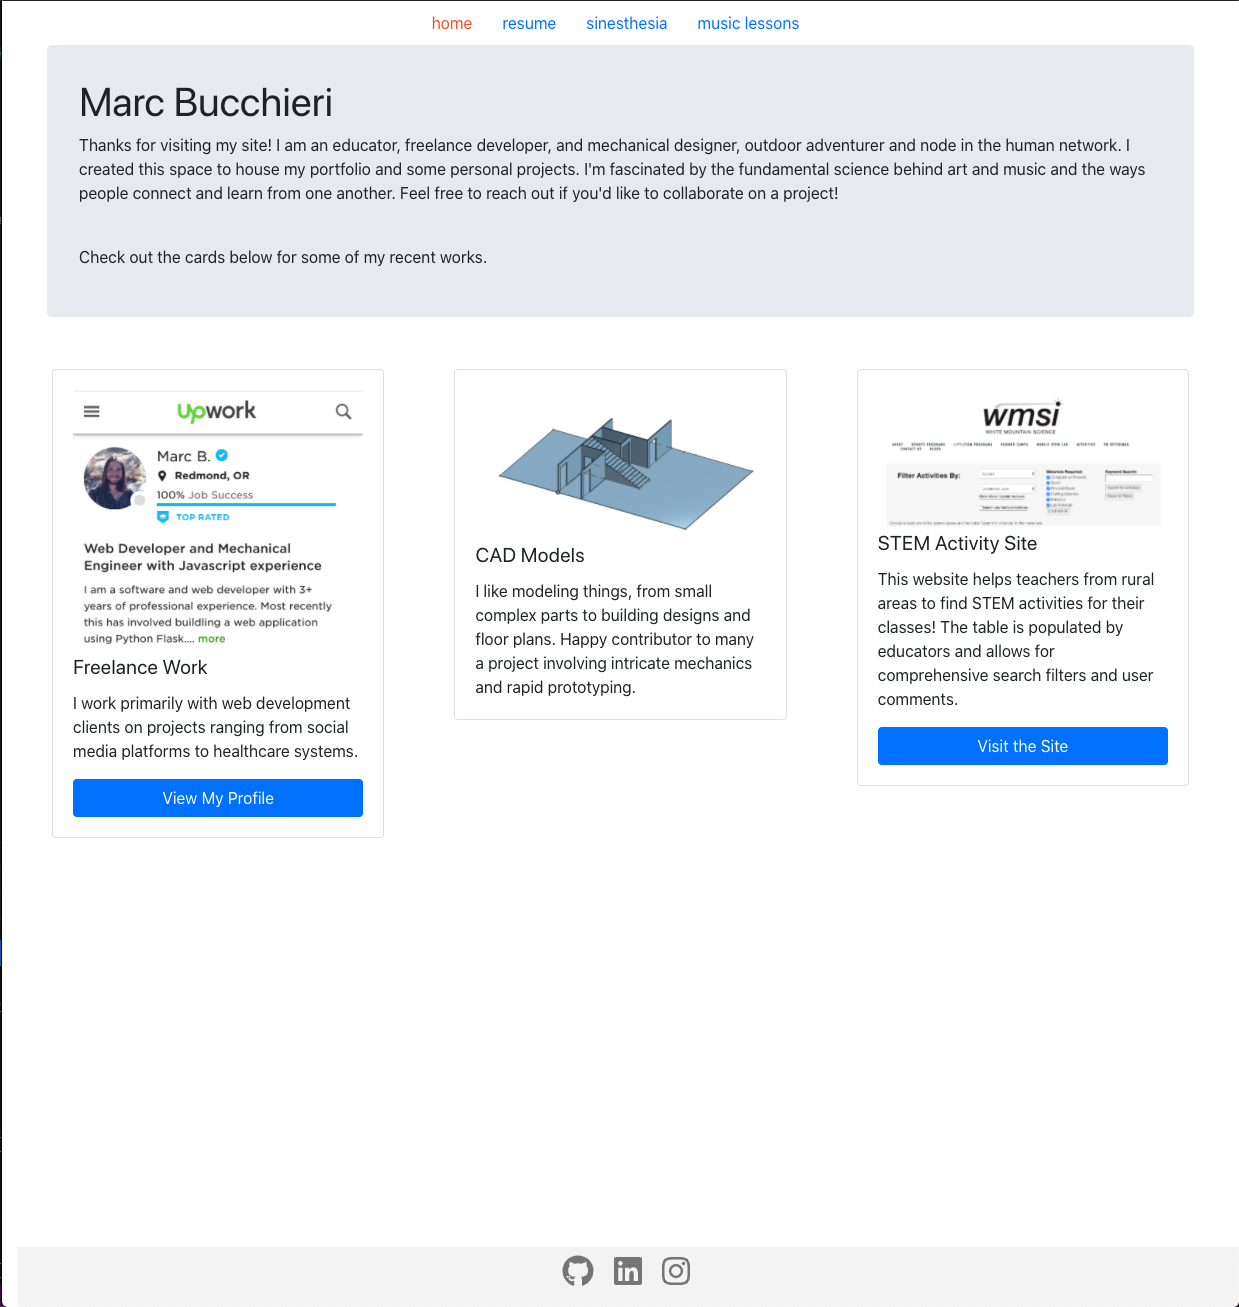
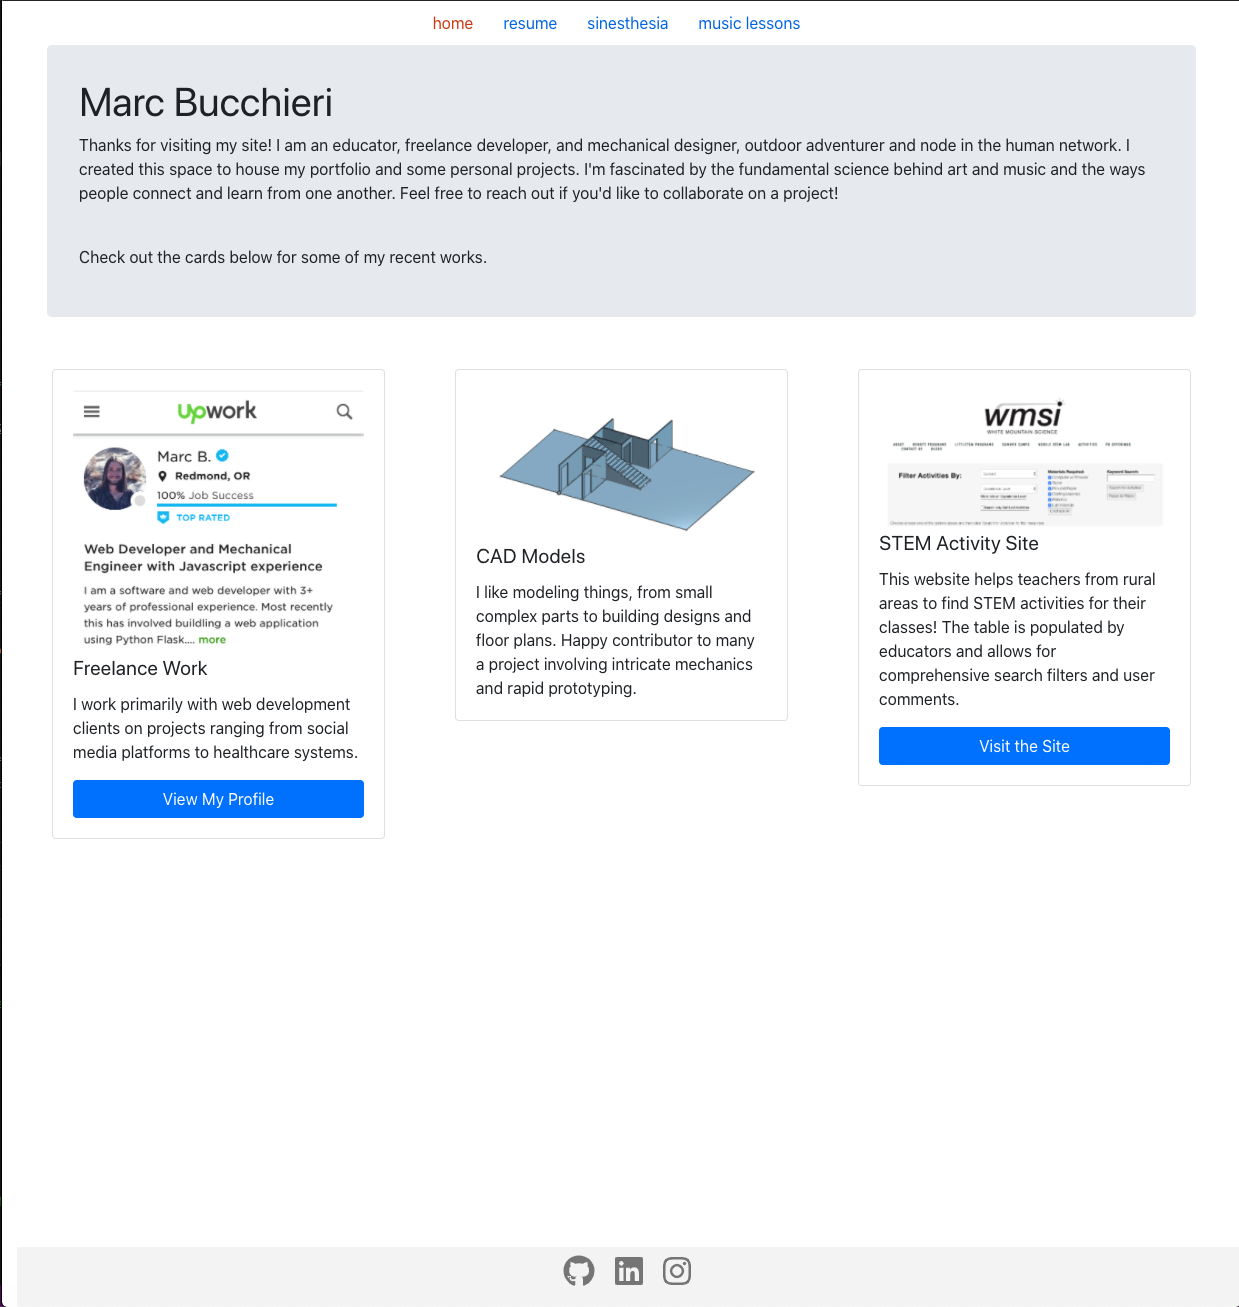
Accessibility - home - proposed

diff --git a/accessibility_home.html b/accessibility_home.html
@@ -1,11 +1,11 @@
-<!-- Current code at https://marqode.github.io/ -->
-
-
-
-
-
-
-
+<!-- Proposed code of https://marqode.github.io/ -->
+<!-- Accessibility findings:
+- Color contrast - https://www.w3.org/WAI/perspective-videos/contrast/
+- Semantic structure of headings - https://www.w3.org/WAI/tutorials/page-structure/headings/
+- Descriptive links - https://www.w3.org/TR/WCAG20-TECHS/H30.html -->
+<!-- Accessibility tools
+- ChromeVox screen reader
+- Color contrast tested with WebAIM Contrast Checker at https://webaim.org/resources/contrastchecker/ -->
 <!doctype html>
 <html lang="en">
 
@@ -513,11 +513,11 @@
         <div class="container-fluid">
             <ul class="nav justify-content-center">
                 
-                <a aria-current="page" class="active" href="/" style="color: rgb(241, 91, 42);">home</a>
-                    
-                    
+                <a aria-current="page" class="active" href="/" style="color: rgb(211, 63, 13);">home</a>
+                <!-- home link - Darken color to style="color: rgb(211, 63, 13);" for sufficient contrast -->
+                <!-- home link - Add aria-selected="true" to link that represents current page -->
 
-                <a href="/resume">resume</a>
+                <a href="/resume">resume</a><!-- Darken color of a style to #006FE6 for sufficient contrast -->
 
                 <a href="/sinesthesia">sinesthesia</a><a href="/lessons">music lessons</a></ul>
             <div class="jumbotron">
@@ -534,7 +534,7 @@
                     <div class="col-md-4">
                         <div class="card"><img src="/dacb25cefb5f75946797444715905196.jpeg" class="card-img-top"
                                 alt="Upwork Profile">
-                            <h5 class="card-title">Freelance Work</h5>
+                            <h2 class="card-title">Freelance Work</h2><!-- Change h5 to h2 and style h2 as font-size: 1.25rem; -->
                             <p class="card-text">I work primarily with web development clients on projects ranging from
                                 social media platforms to healthcare systems.</p><a
                                 href="https://www.upwork.com/o/profiles/users/~0159865d28fe088b77/"
@@ -544,7 +544,7 @@
                     <div class="col-md-4">
                         <div class="card"><img src="/6f12ac936c509c3d82ff1f49f5034b73.png" class="card-img-top"
                                 alt="House Floorplan">
-                            <h5 class="card-title">CAD Models</h5>
+                            <h2 class="card-title">CAD Models</h2><!-- Change h5 to h2 and style h2 as font-size: 1.25rem; -->
                             <p class="card-text">I like modeling things, from small complex parts to building designs
                                 and floor plans. Happy contributor to many a project involving intricate mechanics and
                                 rapid prototyping.</p>
@@ -553,7 +553,7 @@
                     <div class="col-md-4">
                         <div class="card"><img src="/2c9d1f8bb263f1e7353ecc4f615b9f71.png" class="card-img-top"
                                 alt="STEM Activity Site">
-                            <h5 class="card-title">STEM Activity Site</h5>
+                            <h2 class="card-title">STEM Activity Site</h2><!-- Change h5 to h2 and style h2 as font-size: 1.25rem; -->
                             <p class="card-text">This website helps teachers from rural areas to find STEM activities
                                 for their classes! The table is populated by educators and allows for comprehensive
                                 search filters and user comments.</p><a
@@ -565,24 +565,24 @@
             </div>
             <footer class="footer">
                 <div class="row justify-content-center">
-                    <a href="https://github.com/marqode" class="social">
-                    
-                    
+                    <a href="https://github.com/marqode" class="social" title="github">
+                        <!-- Darken color of a style to #757575 for sufficient contrast -->
+                        <!-- Describe the icon in teh title tag -->
                     <svg
-                            aria-hidden="true" focusable="false" data-prefix="fab" data-icon="github"
+                            aria-hidden="true" focusable="false" data-prefix="fab" data-icon="github" aria-labelledby="github" 
                             class="svg-inline--fa fa-github fa-w-16 fa-2x " role="img"
                             xmlns="http://www.w3.org/2000/svg" viewBox="0 0 496 512">
                             <path fill="currentColor"
                                 d="M165.9 397.4c0 2-2.3 3.6-5.2 3.6-3.3.3-5.6-1.3-5.6-3.6 0-2 2.3-3.6 5.2-3.6 3-.3 5.6 1.3 5.6 3.6zm-31.1-4.5c-.7 2 1.3 4.3 4.3 4.9 2.6 1 5.6 0 6.2-2s-1.3-4.3-4.3-5.2c-2.6-.7-5.5.3-6.2 2.3zm44.2-1.7c-2.9.7-4.9 2.6-4.6 4.9.3 2 2.9 3.3 5.9 2.6 2.9-.7 4.9-2.6 4.6-4.6-.3-1.9-3-3.2-5.9-2.9zM244.8 8C106.1 8 0 113.3 0 252c0 110.9 69.8 205.8 169.5 239.2 12.8 2.3 17.3-5.6 17.3-12.1 0-6.2-.3-40.4-.3-61.4 0 0-70 15-84.7-29.8 0 0-11.4-29.1-27.8-36.6 0 0-22.9-15.7 1.6-15.4 0 0 24.9 2 38.6 25.8 21.9 38.6 58.6 27.5 72.9 20.9 2.3-16 8.8-27.1 16-33.7-55.9-6.2-112.3-14.3-112.3-110.5 0-27.5 7.6-41.3 23.6-58.9-2.6-6.5-11.1-33.3 2.6-67.9 20.9-6.5 69 27 69 27 20-5.6 41.5-8.5 62.8-8.5s42.8 2.9 62.8 8.5c0 0 48.1-33.6 69-27 13.7 34.7 5.2 61.4 2.6 67.9 16 17.7 25.8 31.5 25.8 58.9 0 96.5-58.9 104.2-114.8 110.5 9.2 7.9 17 22.9 17 46.4 0 33.7-.3 75.4-.3 83.6 0 6.5 4.6 14.4 17.3 12.1C428.2 457.8 496 362.9 496 252 496 113.3 383.5 8 244.8 8zM97.2 352.9c-1.3 1-1 3.3.7 5.2 1.6 1.6 3.9 2.3 5.2 1 1.3-1 1-3.3-.7-5.2-1.6-1.6-3.9-2.3-5.2-1zm-10.8-8.1c-.7 1.3.3 2.9 2.3 3.9 1.6 1 3.6.7 4.3-.7.7-1.3-.3-2.9-2.3-3.9-2-.6-3.6-.3-4.3.7zm32.4 35.6c-1.6 1.3-1 4.3 1.3 6.2 2.3 2.3 5.2 2.6 6.5 1 1.3-1.3.7-4.3-1.3-6.2-2.2-2.3-5.2-2.6-6.5-1zm-11.4-14.7c-1.6 1-1.6 3.6 0 5.9 1.6 2.3 4.3 3.3 5.6 2.3 1.6-1.3 1.6-3.9 0-6.2-1.4-2.3-4-3.3-5.6-2z">
-                            </path>
-                        </svg></a><a href="https://www.linkedin.com/in/marc-bucchieri-352b9877/" class="social"><svg
+                            </path>\
+                        </svg></a><a href="https://www.linkedin.com/in/marc-bucchieri-352b9877/" class="social" title="linkedin"><svg
                             aria-hidden="true" focusable="false" data-prefix="fab" data-icon="linkedin"
                             class="svg-inline--fa fa-linkedin fa-w-14 fa-2x " role="img"
                             xmlns="http://www.w3.org/2000/svg" viewBox="0 0 448 512">
                             <path fill="currentColor"
                                 d="M416 32H31.9C14.3 32 0 46.5 0 64.3v383.4C0 465.5 14.3 480 31.9 480H416c17.6 0 32-14.5 32-32.3V64.3c0-17.8-14.4-32.3-32-32.3zM135.4 416H69V202.2h66.5V416zm-33.2-243c-21.3 0-38.5-17.3-38.5-38.5S80.9 96 102.2 96c21.2 0 38.5 17.3 38.5 38.5 0 21.3-17.2 38.5-38.5 38.5zm282.1 243h-66.4V312c0-24.8-.5-56.7-34.5-56.7-34.6 0-39.9 27-39.9 54.9V416h-66.4V202.2h63.7v29.2h.9c8.9-16.8 30.6-34.5 62.9-34.5 67.2 0 79.7 44.3 79.7 101.9V416z">
                             </path>
-                        </svg></a><a href="https://www.instagram.com/marcbucchieri/" class="social"><svg
+                        </svg></a><a href="https://www.instagram.com/marcbucchieri/" class="social" title="instagram"><svg
                             aria-hidden="true" focusable="false" data-prefix="fab" data-icon="instagram"
                             class="svg-inline--fa fa-instagram fa-w-14 fa-2x " role="img"
                             xmlns="http://www.w3.org/2000/svg" viewBox="0 0 448 512">
